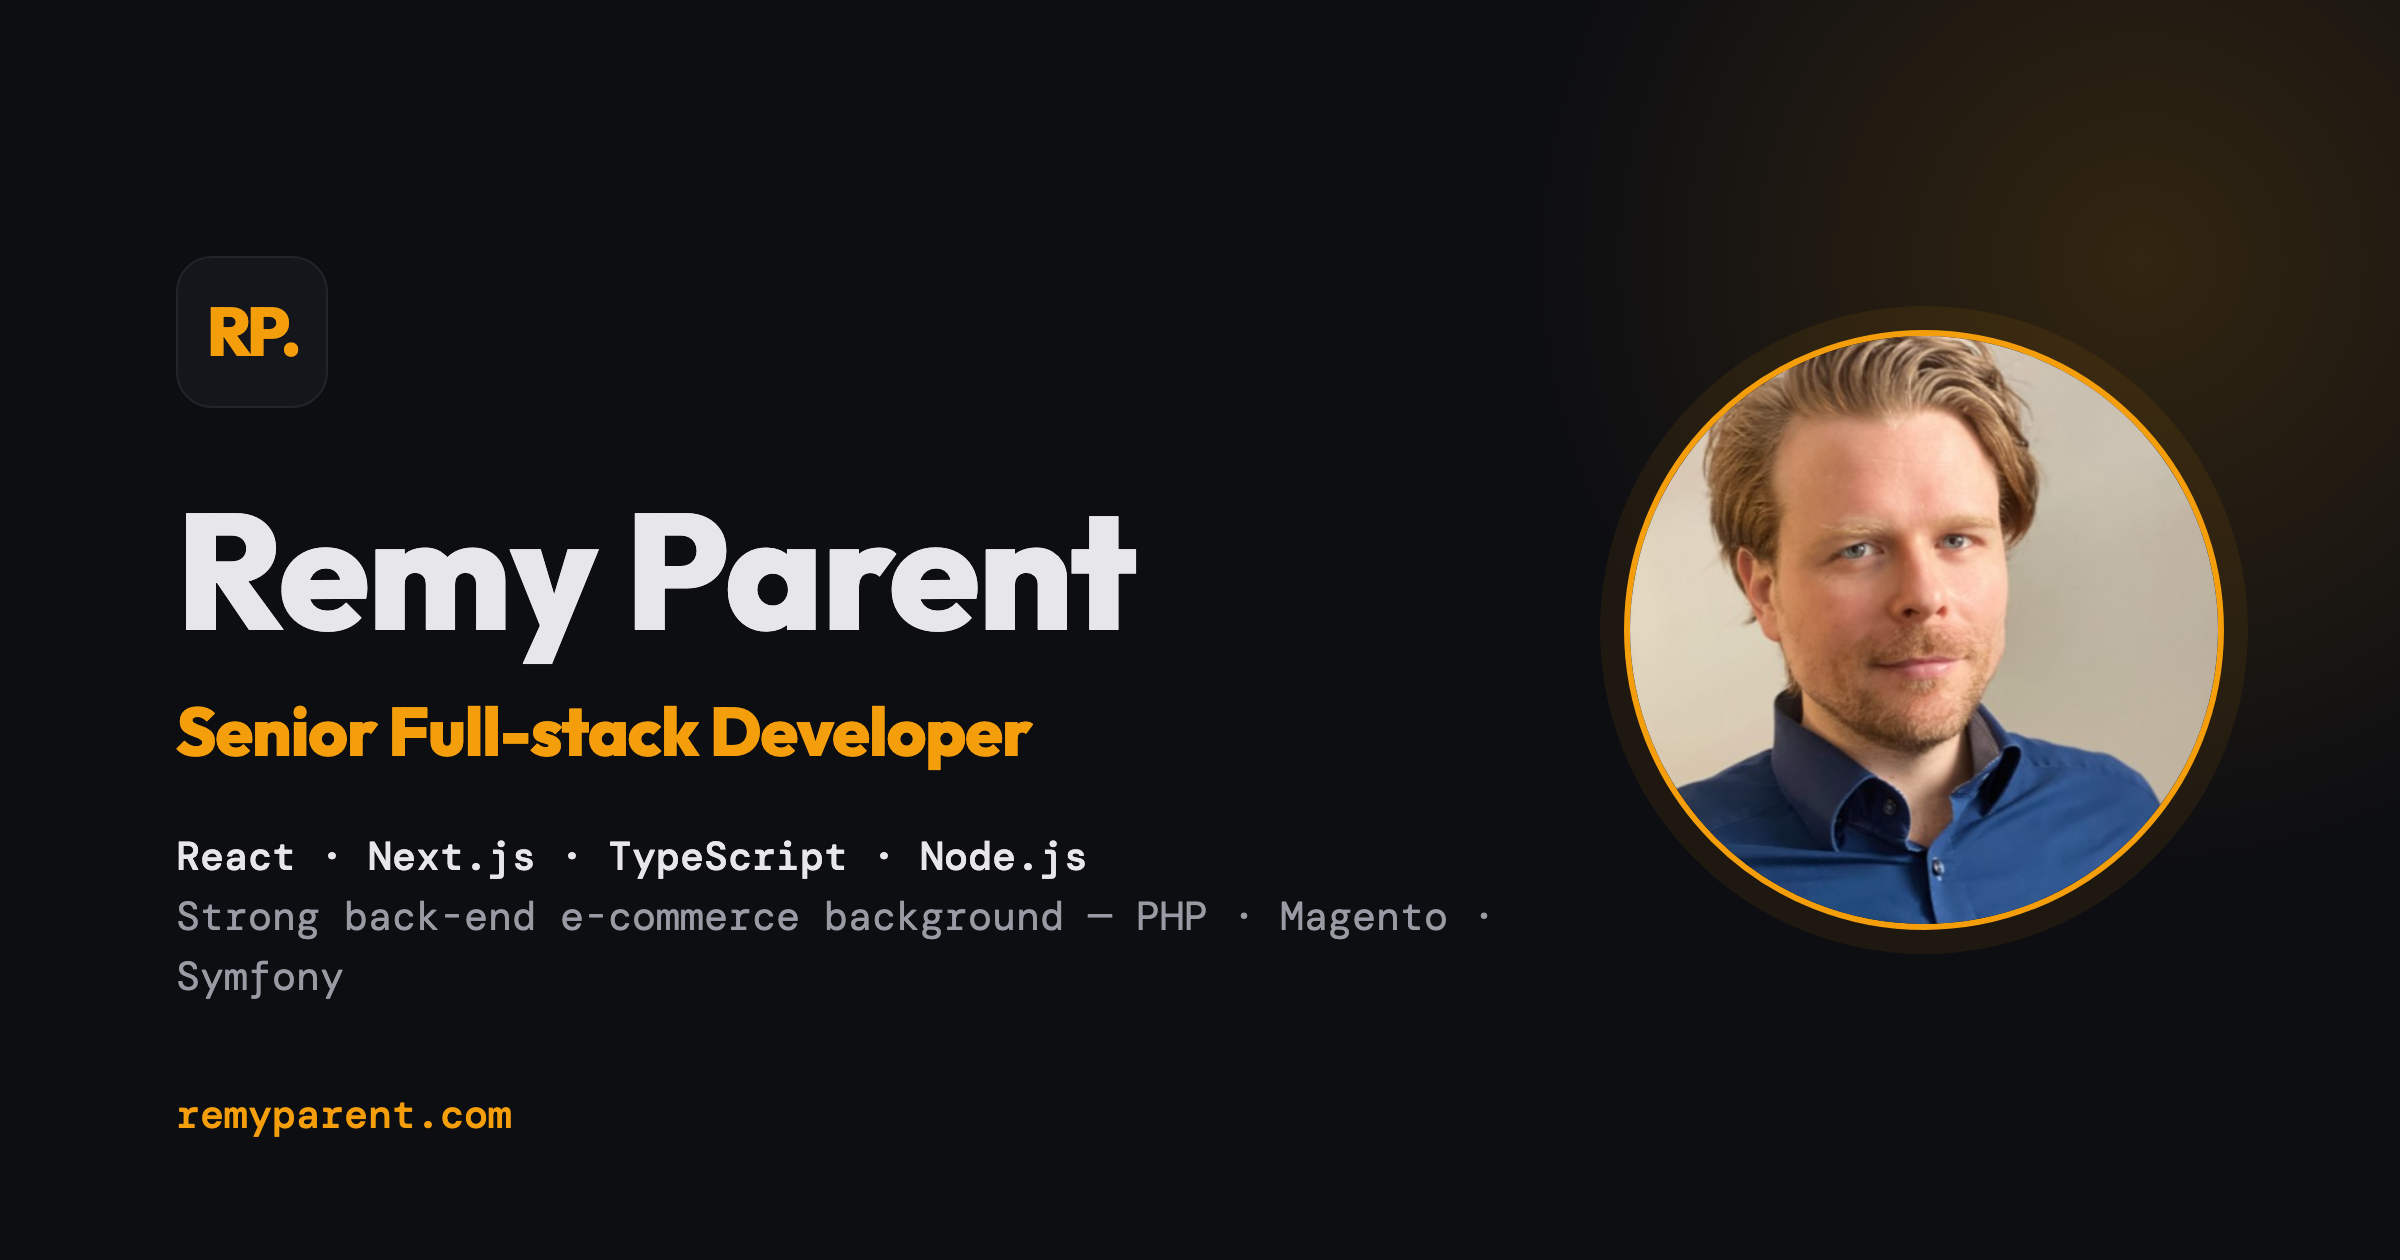
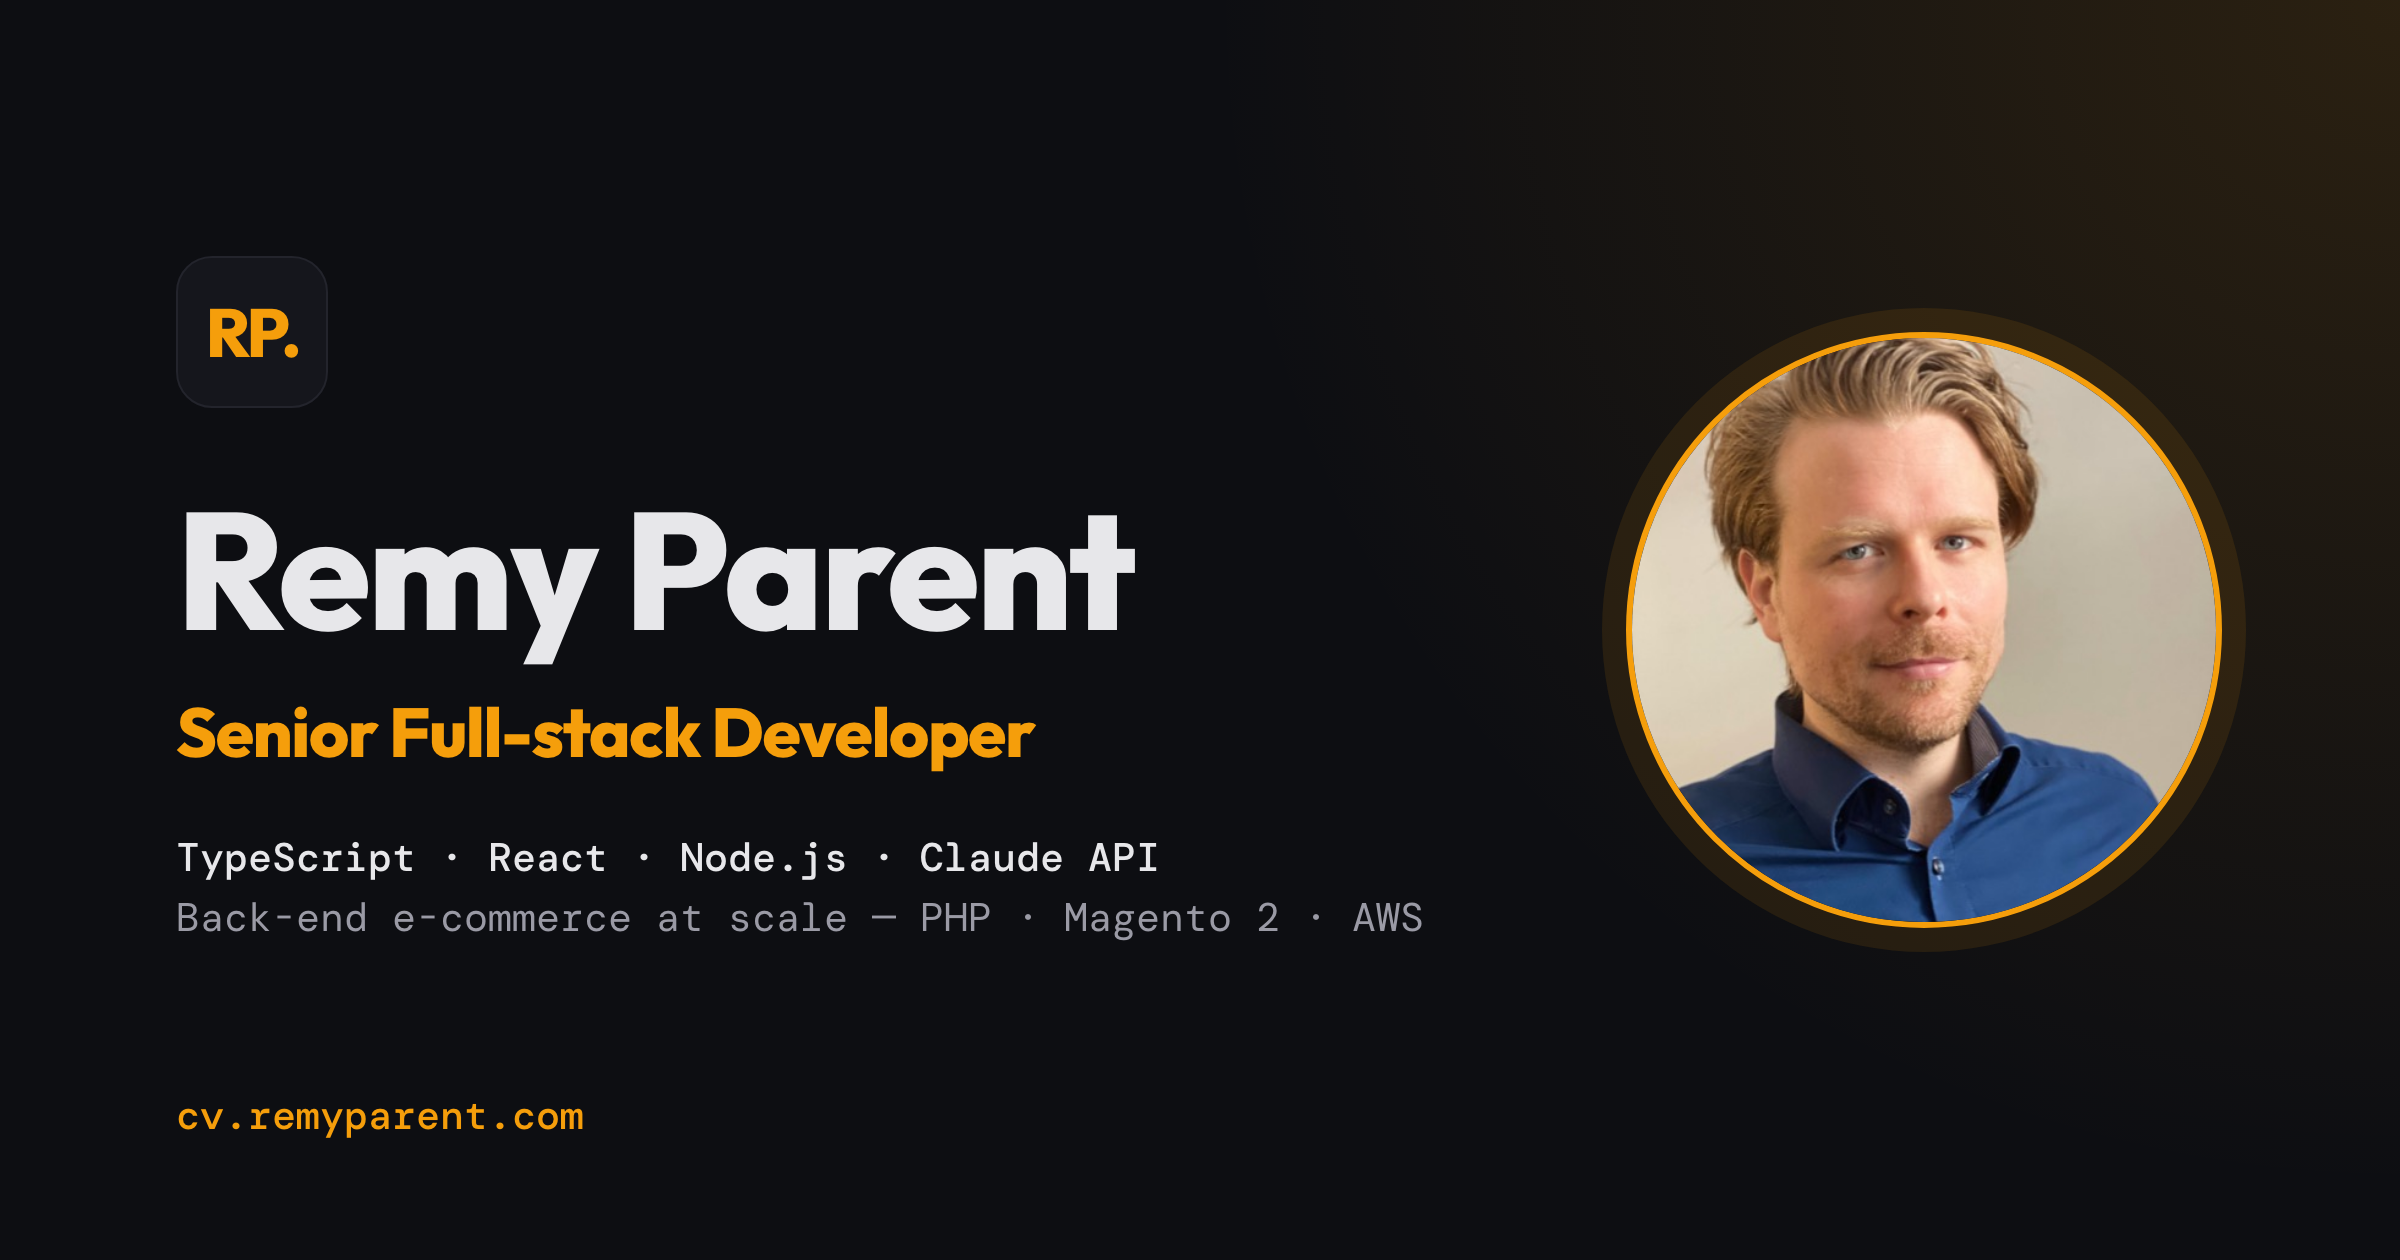
feat: regenerate the Open Graph image from a committed template (#34)
* feat: generate the Open Graph image from a committed template

The source of public/og-image.png was not in the repository, so the image
could not be edited. `npm run og:image` now renders
scripts/og-image/template.html with Playwright to public/og-image.png.

The script refuses to write the image if a font did not load, if the portrait
is missing, or if the output is not a 2400x1260 PNG under 1 MB without
metadata chunks.

Claude-Session: https://claude.ai/code/session_016wM4bY3inv937FGPSaRKTe

* fix: update the Open Graph image to the new positioning

The share card now reads "TypeScript · React · Node.js · Claude API",
"Back-end e-commerce at scale — PHP · Magento 2 · AWS" and cv.remyparent.com,
with the same layout as before. It is generated by `npm run og:image`, now
documented in README.md and CLAUDE.md.

Claude-Session: https://claude.ai/code/session_016wM4bY3inv937FGPSaRKTe

---------

diff --git a/scripts/og-image/template.html b/scripts/og-image/template.html
@@ -1,0 +1,154 @@
+<!doctype html>
+<!--
+  Source of public/og-image.png, the card shown when the site is shared.
+  Edit this file, then run `npm run og:image` to regenerate the PNG.
+  The page is designed for a 2400x1260 viewport and is not responsive.
+-->
+<html lang="en">
+  <head>
+    <meta charset="UTF-8" />
+    <meta name="viewport" content="width=2400" />
+    <title>Open Graph image</title>
+    <link rel="preconnect" href="https://fonts.googleapis.com" />
+    <link rel="preconnect" href="https://fonts.gstatic.com" crossorigin />
+    <link
+      href="https://fonts.googleapis.com/css2?family=DM+Mono:wght@400;500&family=Outfit:wght@800&display=block"
+      rel="stylesheet"
+    />
+    <style>
+      /* Dark theme tokens, copied from the @theme block of src/index.css. */
+      :root {
+        --color-bg: #0d0e12;
+        --color-bg-raised: #15161c;
+        --color-border: #23242c;
+        --color-text: #e7e7ea;
+        --color-text-muted: #9a9aa5;
+        --color-accent: #f59e0b;
+        --font-heading: 'Outfit', sans-serif;
+        --font-mono: 'DM Mono', ui-monospace, monospace;
+      }
+
+      * {
+        box-sizing: border-box;
+        margin: 0;
+      }
+
+      body {
+        position: relative;
+        width: 2400px;
+        height: 1260px;
+        overflow: hidden;
+        background:
+          radial-gradient(circle at 100% 0%, rgb(245 158 11 / 0.13), transparent 44%),
+          var(--color-bg);
+        color: var(--color-text);
+        font-family: var(--font-mono);
+        -webkit-font-smoothing: antialiased;
+      }
+
+      .text {
+        position: absolute;
+        top: 256px;
+        left: 176px;
+        white-space: nowrap;
+      }
+
+      /* Same mark as public/favicon.svg. */
+      .logo {
+        display: flex;
+        align-items: center;
+        justify-content: center;
+        width: 152px;
+        height: 152px;
+        border: 2px solid var(--color-border);
+        border-radius: 36px;
+        background: var(--color-bg-raised);
+        color: var(--color-accent);
+        font-family: var(--font-heading);
+        font-size: 68px;
+        font-weight: 800;
+        letter-spacing: -0.05em;
+      }
+
+      .name {
+        margin-top: 78px;
+        font-family: var(--font-heading);
+        font-size: 166px;
+        font-weight: 800;
+        line-height: 1;
+        letter-spacing: -0.02em;
+      }
+
+      .subtitle {
+        margin-top: 45px;
+        color: var(--color-accent);
+        font-family: var(--font-heading);
+        font-size: 69px;
+        font-weight: 800;
+        line-height: 1;
+        letter-spacing: -0.02em;
+      }
+
+      .stack,
+      .background {
+        font-size: 40px;
+        line-height: 60px;
+      }
+
+      .stack {
+        margin-top: 61px;
+        font-weight: 500;
+      }
+
+      .background {
+        color: var(--color-text-muted);
+      }
+
+      .domain {
+        position: absolute;
+        bottom: 125px;
+        left: 176px;
+        color: var(--color-accent);
+        font-size: 40px;
+        font-weight: 500;
+        line-height: 1;
+      }
+
+      .portrait {
+        position: absolute;
+        top: 332px;
+        left: 1626px;
+        width: 596px;
+        height: 596px;
+        overflow: hidden;
+        border: 6px solid var(--color-accent);
+        border-radius: 50%;
+        box-shadow: 0 0 0 24px rgb(245 158 11 / 0.1);
+      }
+
+      /* Same framing as the hero portrait in src/components/sections/Hero.tsx. */
+      .portrait img {
+        display: block;
+        width: 100%;
+        height: 100%;
+        object-fit: cover;
+        object-position: center 22%;
+        translate: 5%;
+        scale: 1.1;
+      }
+    </style>
+  </head>
+  <body>
+    <div class="text">
+      <div class="logo">RP.</div>
+      <h1 class="name">Remy Parent</h1>
+      <p class="subtitle">Senior Full-stack Developer</p>
+      <p class="stack">TypeScript · React · Node.js · Claude API</p>
+      <p class="background">Back-end e-commerce at scale — PHP · Magento 2 · AWS</p>
+    </div>
+    <p class="domain">cv.remyparent.com</p>
+    <div class="portrait">
+      <img src="../../src/assets/profile.jpg" alt="" />
+    </div>
+  </body>
+</html>

diff --git a/CLAUDE.md b/CLAUDE.md
@@ -24,6 +24,7 @@ This is `remyparent-cv`, Remy Parent's bilingual (FR/EN) personal CV/portfolio s
 CI (`.github/workflows/ci.yml`) runs, in order: `typecheck`, `lint`, `format:check`, `check:i18n`, `test:run`. A separate workflow runs Playwright against chromium/firefox/webkit. Match these locally before pushing.
 
 - `npm run check:i18n` — audits FR/EN parity (`scripts/check-i18n.mjs`): locale key parity between `src/i18n/locales/{fr,en}.json`, `t()` keys that don't resolve, and incomplete `Bilingual<T>` fields in `src/data/*.ts` (empty sides, fr/en array-length mismatch, untranslated duplicates). Zero-dependency: uses `node --experimental-strip-types` to read the `.ts` data files. Exits non-zero on errors; warnings don't fail. The `/check-i18n` skill wraps the same script.
+- `npm run og:image` — regenerates `public/og-image.png`, the share card behind the `og:image` tag, by rendering `scripts/og-image/template.html` with Playwright (`scripts/og-image.mjs`). It needs network access (Google Fonts) and a local Chromium (`npx playwright install chromium`), and refuses to write the image if a font did not load. It is not part of the build: run it after editing the template and commit the PNG.
 
 A Husky `pre-commit` hook runs `npx lint-staged`, which runs `eslint --fix` + `prettier --write` on staged `.ts`/`.tsx` files and `prettier --write` on staged `.json`/`.css`/`.md` files.
 

diff --git a/README.md b/README.md
@@ -46,6 +46,7 @@ The only environment variable is `VITE_SITE_URL` (see [.env.example](.env.exampl
 | `npm run test:coverage` | Runs Vitest once with a coverage report.                                          |
 | `npm run typecheck`     | Type-checks the app, the tooling config and the end-to-end tests with `tsc -b`.   |
 | `npm run check:i18n`    | Audits FR/EN parity: locale keys, `t()` keys that do not resolve, bilingual data. |
+| `npm run og:image`      | Regenerates the share card `public/og-image.png` from its HTML template.          |
 | `npm run prepare`       | Installs the Husky git hooks. npm runs it automatically after `npm install`.      |
 
 ## How it's built
